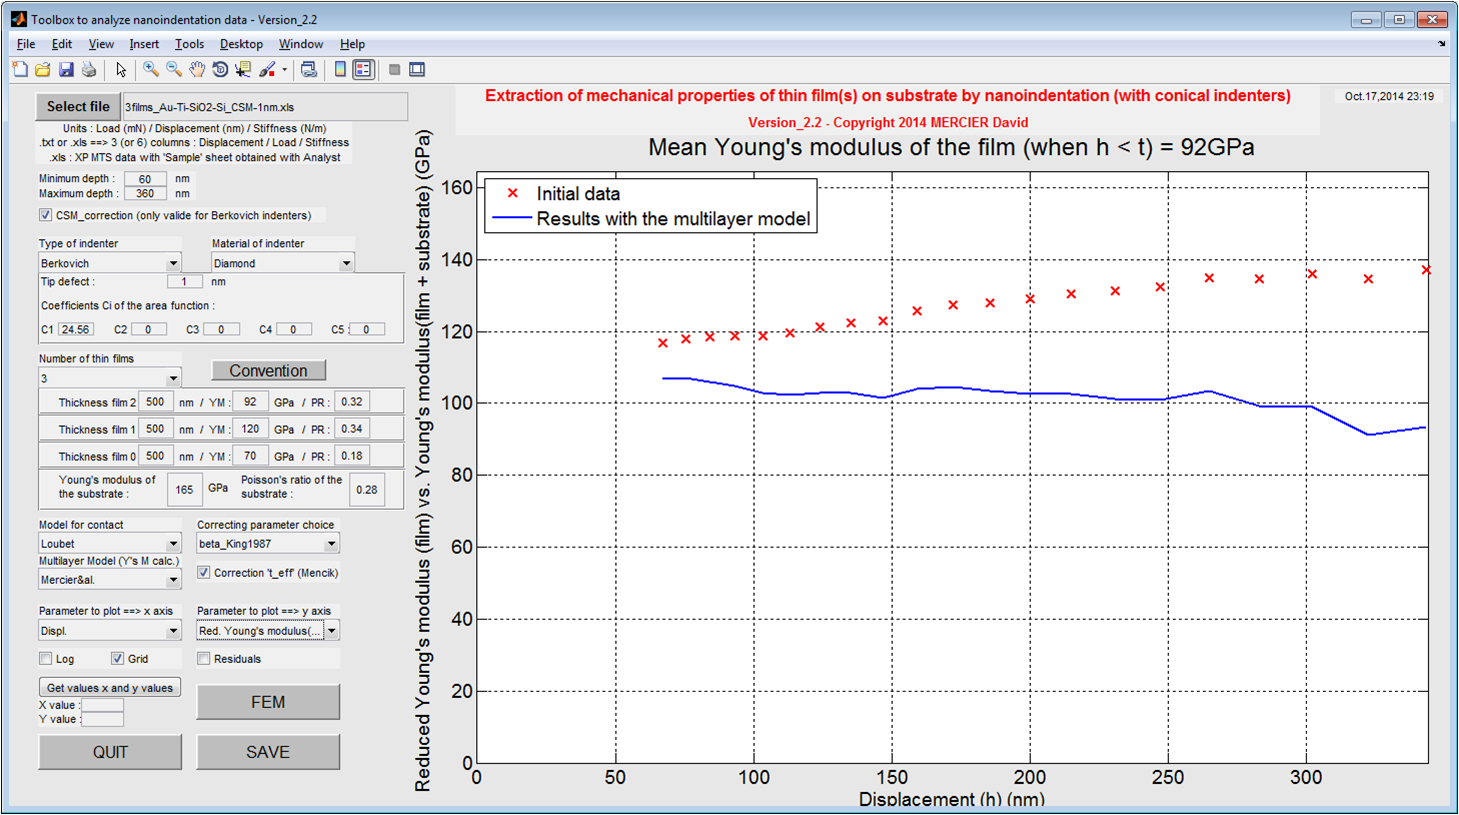
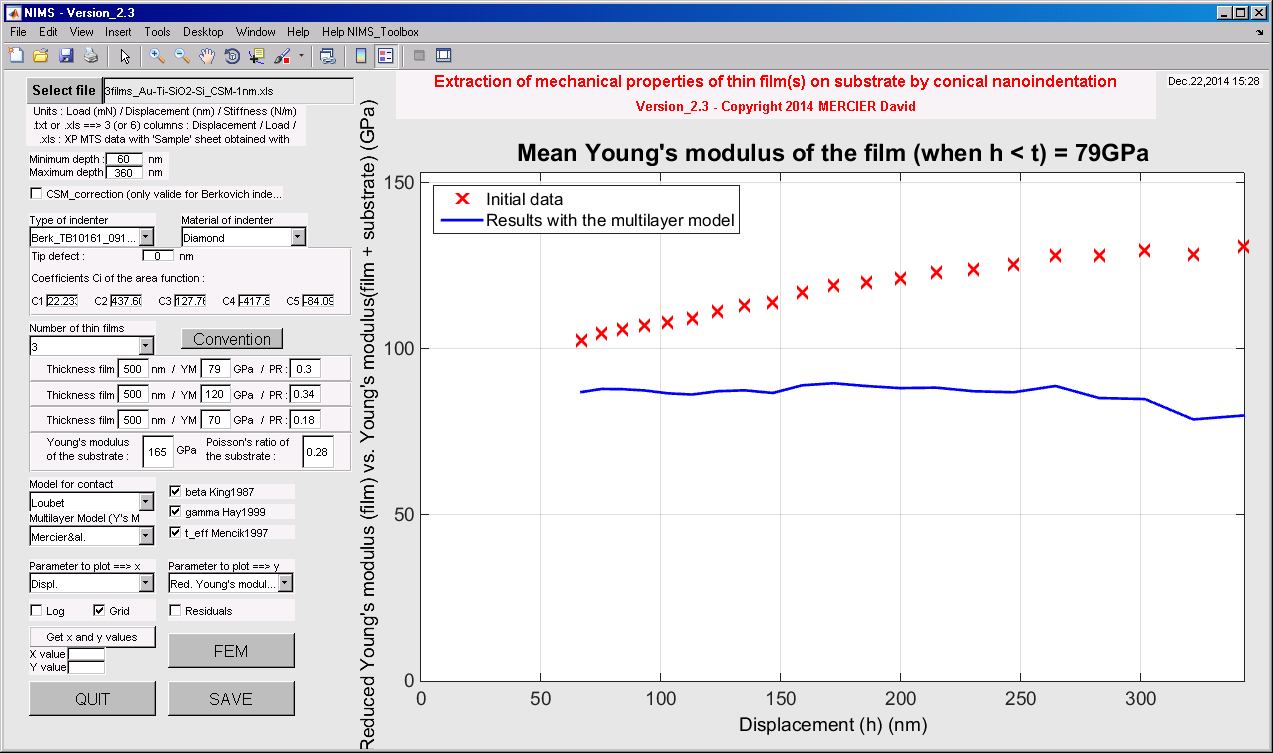
updated doc/pictures and customized menu

diff --git a/GUI_Extraction_EP_properties_for_multilayer_sample.m b/GUI_Extraction_EP_properties_for_multilayer_sample.m
@@ -110,17 +110,6 @@ gui.handles.date_GUI = uicontrol('Parent', gcf,...
     'String', datestr(datenum(clock),'mmm.dd,yyyy HH:MM'),...
     'Position', [0.92 0.975 0.075 0.02]);
 
-
-%% Help
-gui.handles.quit_GUI = uicontrol('Parent', gcf,...
-    'Units', 'normalized',...
-    'Style', 'pushbutton',...
-    'Position', [0.92 0.90 0.075 0.05],...
-    'String', 'HELP',...
-    'FontSize', 12,...
-    'BackgroundColor', [0.745 0.745 0.745],...
-    'Callback', 'gui = guidata(gcf); web(gui.config.url_help,''-browser'')');
-
 %% Buttons to browse in files
 gui.handles.opendata_GUI = uicontrol('Parent', gcf,...
     'Units', 'normalized',...
@@ -454,7 +443,7 @@ gui.handles.cb_residual_plot_GUI = uicontrol('Parent', gcf,...
 
 %% Plot configuration
 gui.handles.AxisPlot_GUI = axes('Parent', gcf,...
-    'Position', [0.325 0.06 0.66 0.82]);
+    'Position', [0.33 0.1 0.65 0.75]);
 
 set(gui.handles.MainWindows,'CurrentAxes', gui.handles.AxisPlot_GUI);
 
@@ -463,7 +452,7 @@ gui.handles.cb_get_values_GUI = uicontrol('Parent', gcf,...
     'Units', 'normalized',...
     'Style', 'pushbutton',...
     'Position', [0.02 0.15 0.1 0.03],...
-    'String', 'Get values x and y values',...
+    'String', 'Get x and y values',...
     'Visible', 'on',...
     'Callback', 'plot_get_values');
 

diff --git a/Matlab_Code/customized_menu.m b/Matlab_Code/customized_menu.m
@@ -3,11 +3,18 @@ function customized_menu(parent)
 %% Setting of customized menu
 % parent: handle of the GUI
 
-help_menu = uimenu(parent, 'Label', 'Help_Toolbox');
+help_menu = uimenu(parent, 'Label', 'Help NIMS_Toolbox');
 
 uimenu(help_menu, ...
     'Label', ...
     'HTML Documentation', ...
     'Callback', ...
     'gui = guidata(gcf); web(gui.config.url_help,''-browser'')');
+
+uimenu(help_menu, ...
+    'Label', ...
+    'PDF Documentation', ...
+    'Callback', ...
+    'web(''https://media.readthedocs.org/pdf/nims/latest/nims.pdf'',''-browser'')');
+
 end

diff --git a/doc/models.rst b/doc/models.rst
@@ -53,7 +53,7 @@ Model of Oliver and Pharr [#OliverPharr_1992]_ :
 				
 where :math:`\epsilon` is a constant function of the indenter's geometry (0.72 for the Berkovich indenter and 0.75 for paraboloids of revolution).
 				
-Model of Loubet et al. [#Bec_1996]_ ,[#Hochstetter_1999]_ :
+Model of Loubet et al. [#Bec_1996]_ , [#Hochstetter_1999]_ :
 				
 		.. math:: h_\text{c} = \alpha * (h_\text{t} - F/S)
 				:label: loubet_model
@@ -74,13 +74,13 @@ Elastic properties of a thin film on a multilayer system
 ++++++++++++++++++++++++++++++++++++++++++++++++++++++++
 
 .. figure:: ./_pictures/multilayer_sample_elastic_model.png
-   :scale: 40 %
+   :scale: 30 %
    :align: center
    
    *Figure 3 : Schematic of elastic multilayer model.*
    
 .. figure:: ./_pictures/multilayer_sample_methodology.png
-   :scale: 40 %
+   :scale: 30 %
    :align: center
    
    *Figure 4 : Experimental process to apply for elastic multilayer model.*

diff --git a/doc/examples.rst b/doc/examples.rst
@@ -19,11 +19,11 @@ Examples
     - Data for a bulk Silicon sample obtained by Berkovich indentation with CSM mode (amplitude 2nm).
     - Data obtained by Berkovich indentation with CSM mode (amplitude 2nm) (no standard deviation).
 
-* 1films_SiO2_Si_CSM-2nm.xls
+* 1film_SiO2_Si_CSM-2nm.xls
     - Data for a thin film of thermal oxide of Silicon (500nm) on a bulk Silicon sample.
     - Data obtained by Berkovich indentation with CSM mode (amplitude 2nm).
 
-* 1films_SiO2_Si_CSM-2nm_noCSM.xls
+* 1film_SiO2_Si_CSM-2nm_noCSM.xls
     - Data for a thin film of thermal oxide of Silicon (500nm) on a bulk Silicon sample.
     - Data obtained by Berkovich indentation with CSM mode (amplitude 2nm) (no standard deviation).
 
